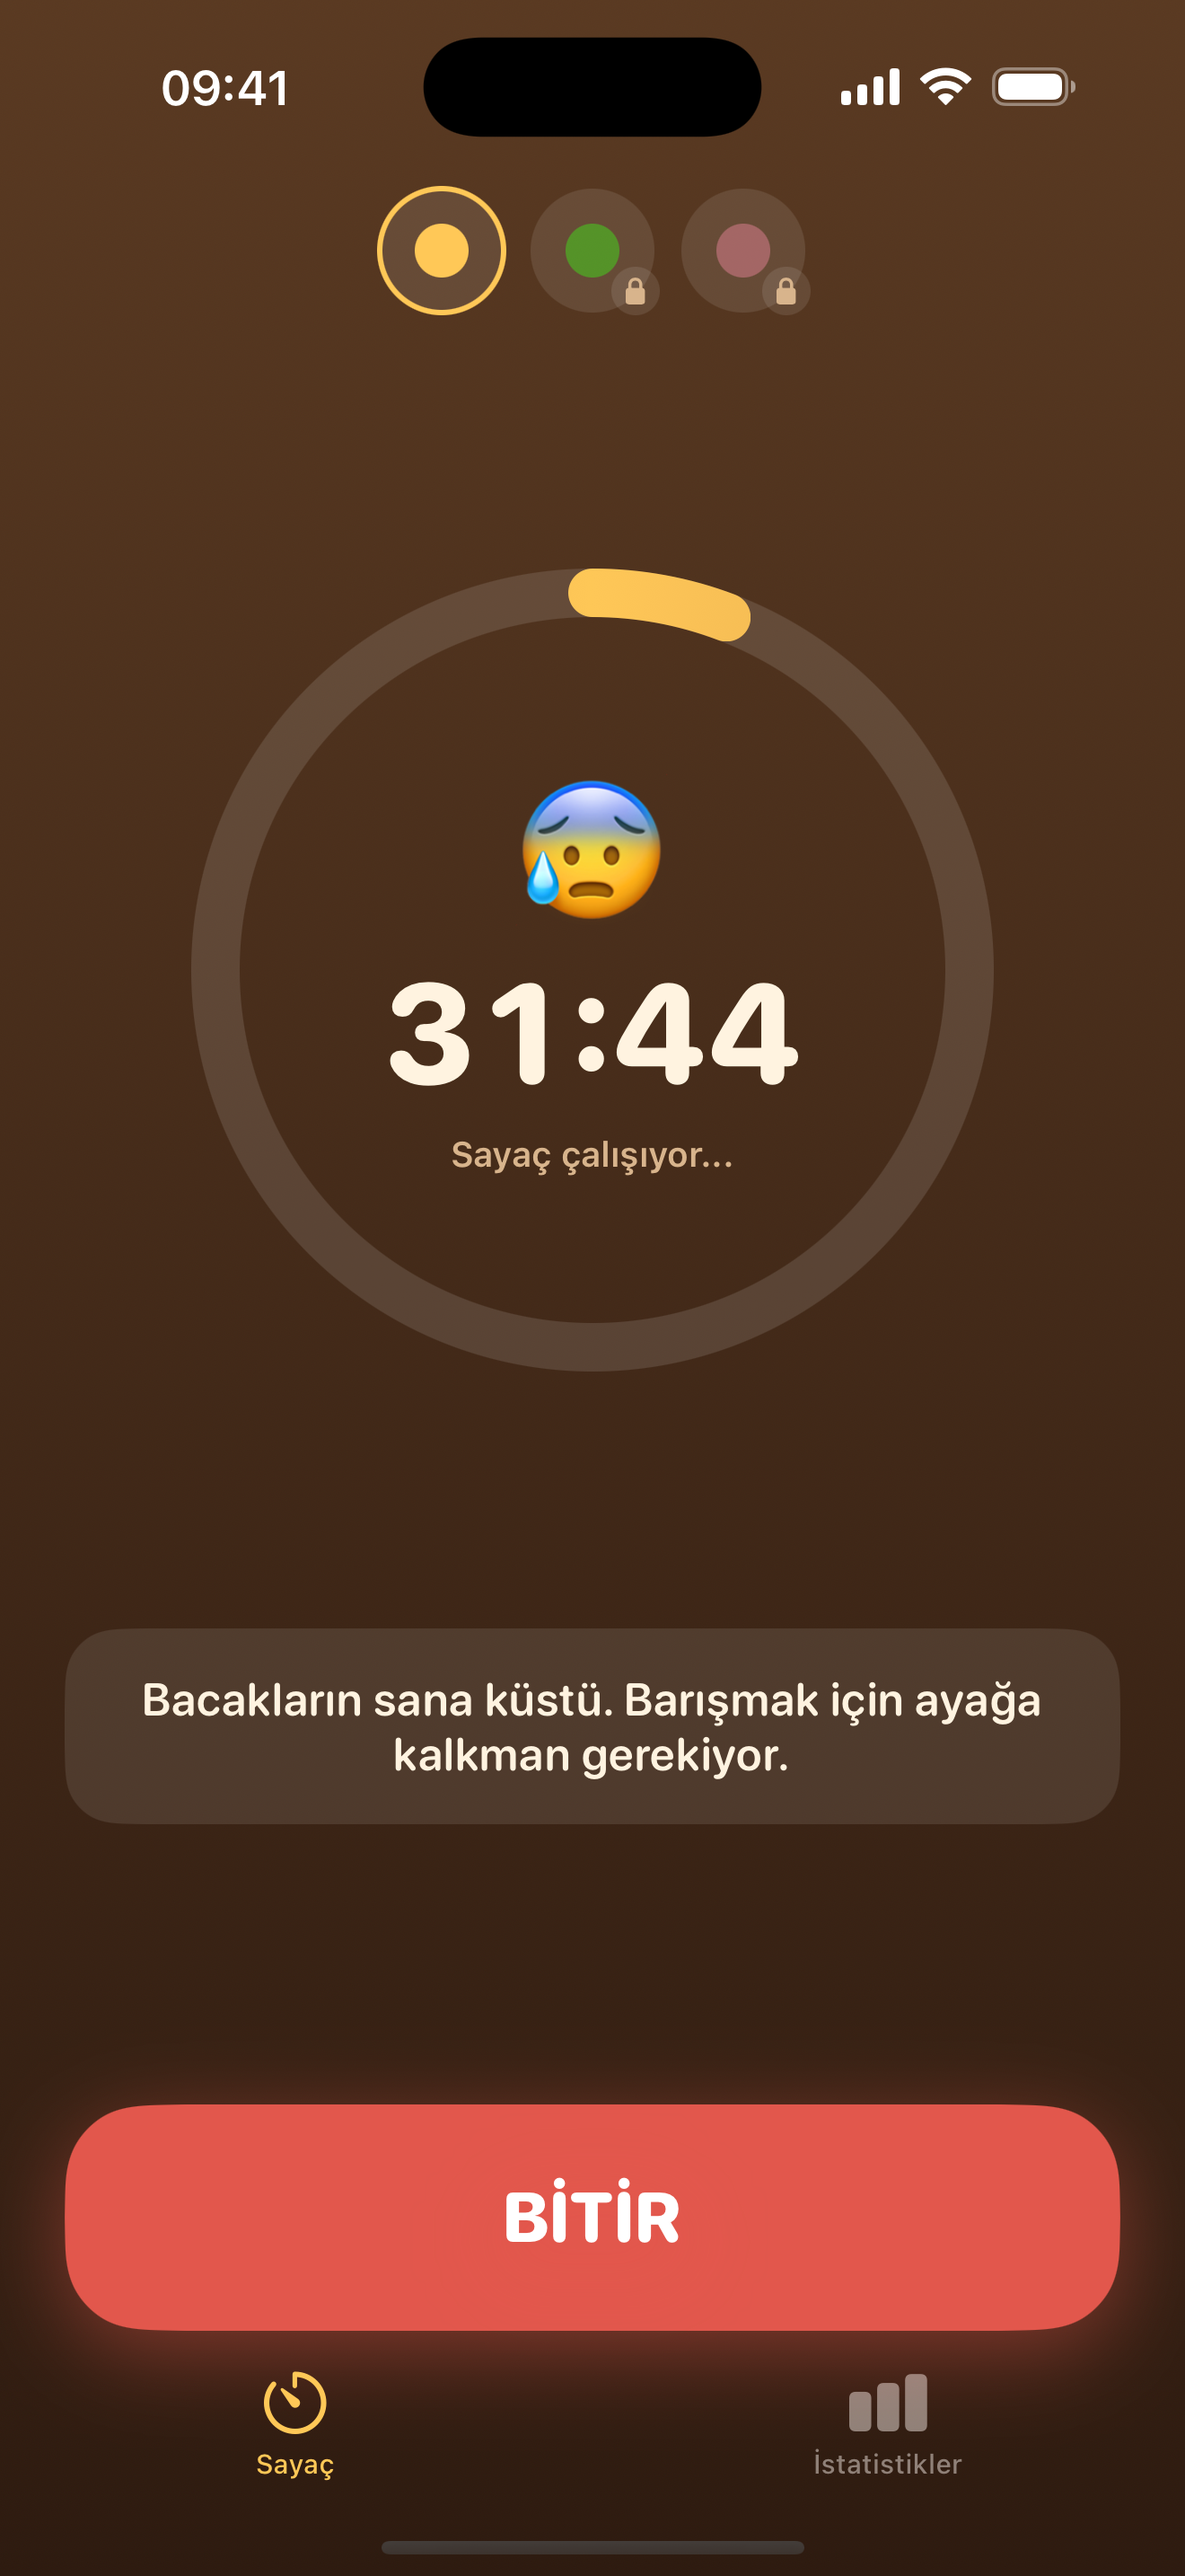
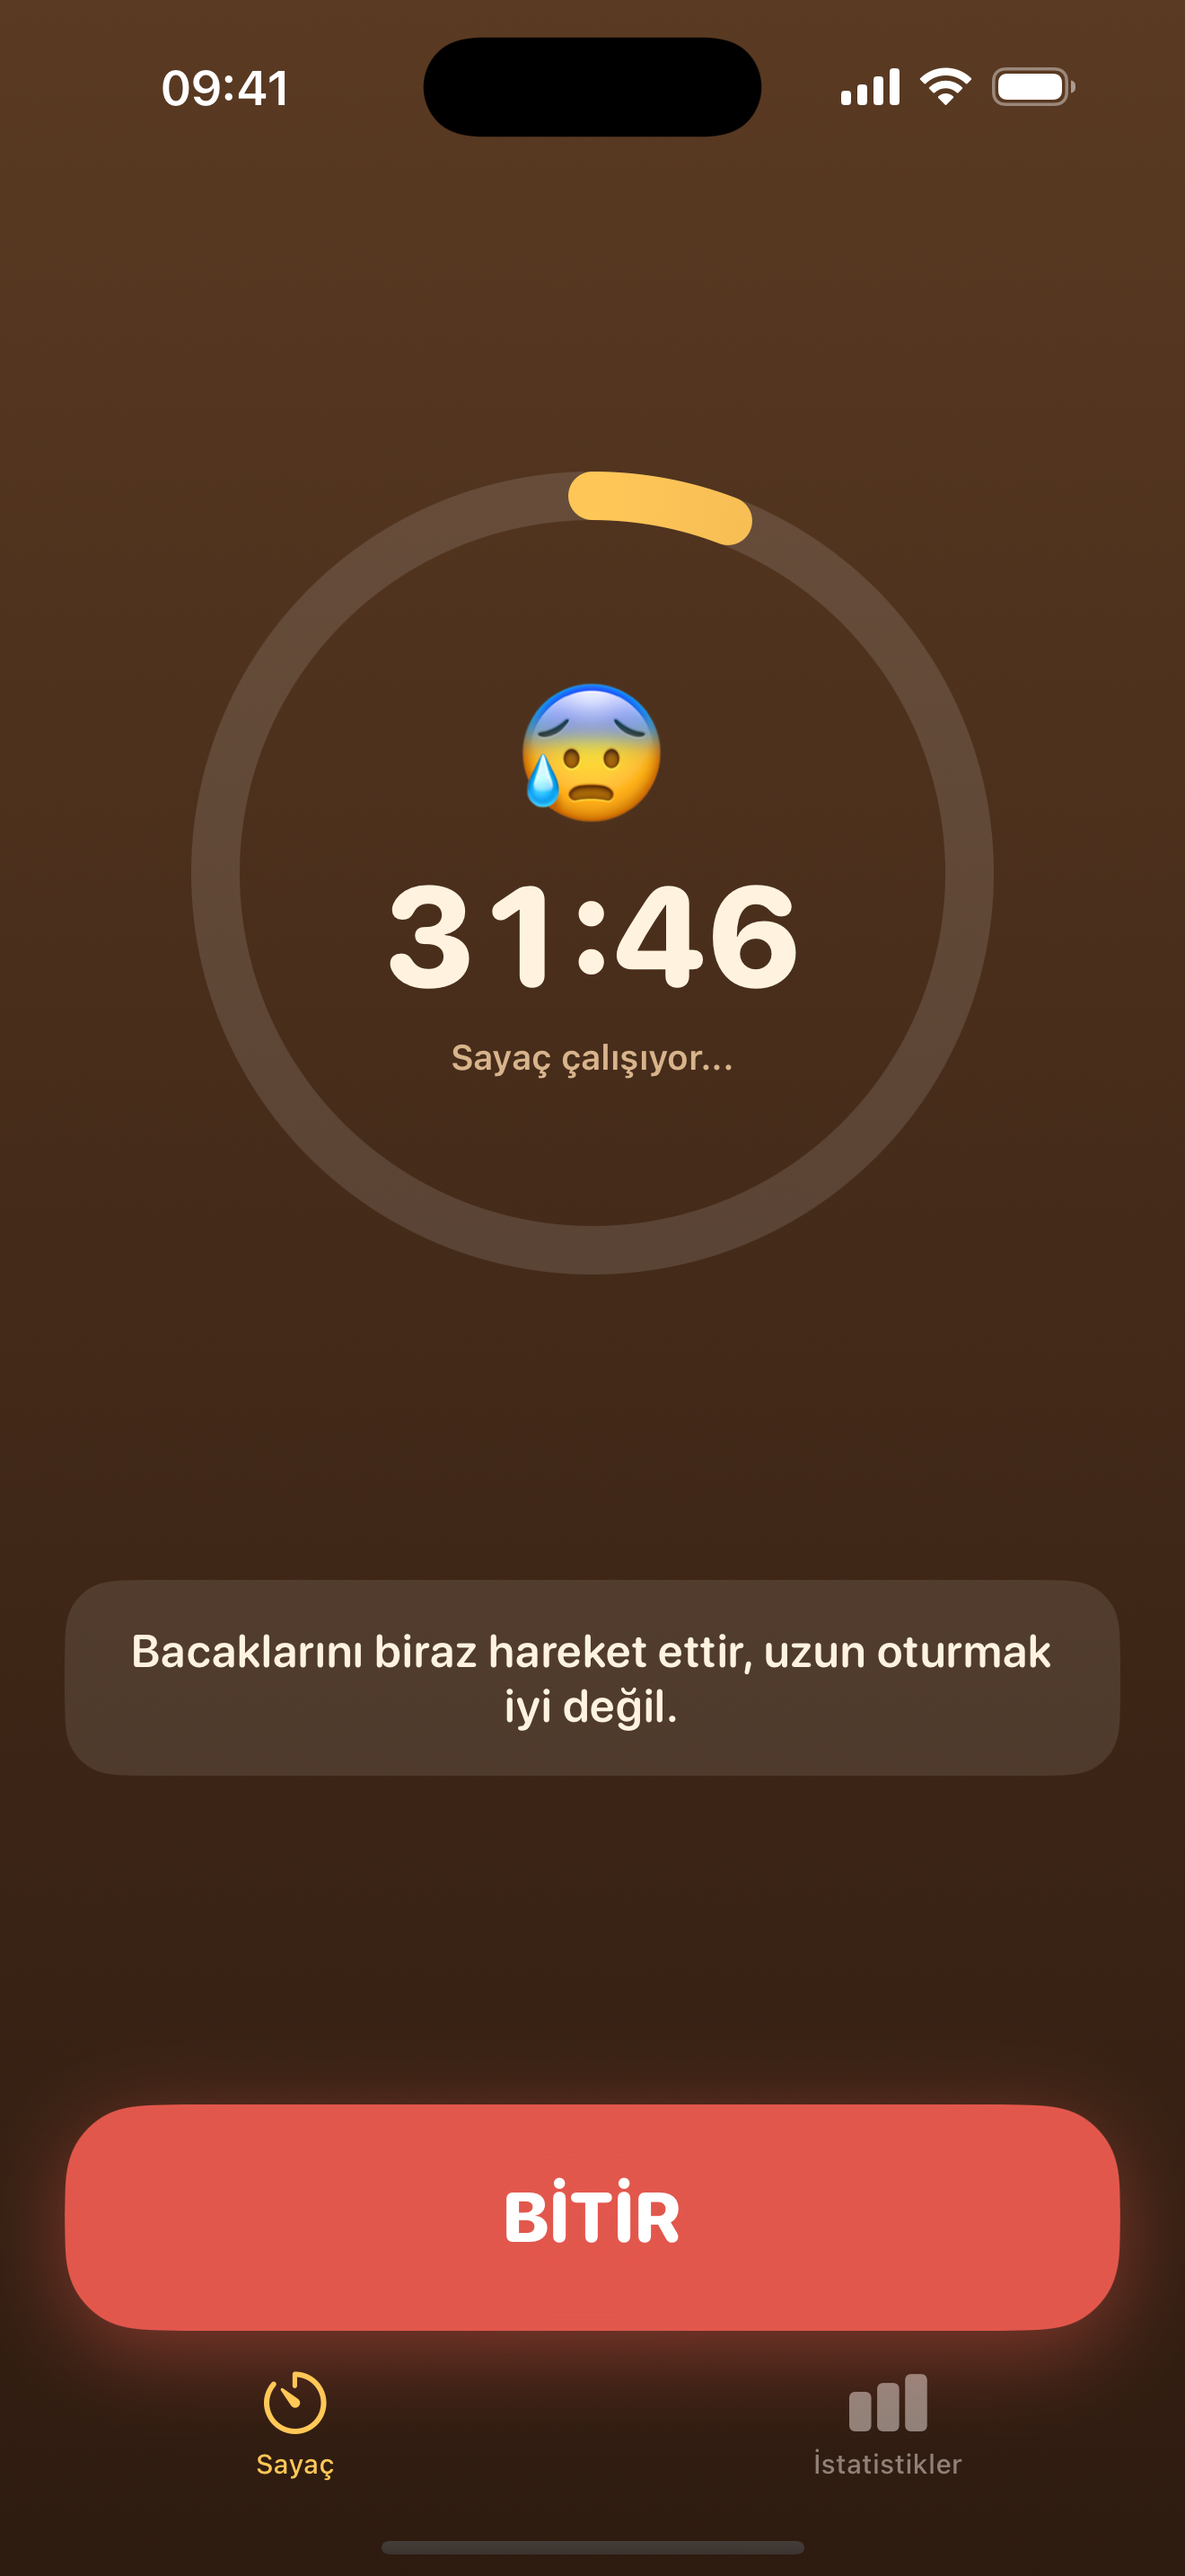
Tema paketini özellik bayrağıyla kapat (build 5)
Paid Applications sözleşmesi aktifleşene kadar kullanıcı çalışmayan bir
satın almayla karşılaşmasın diye: Features.themePackEnabled = false.

- Yalnızca ücretsiz Klasik tema görünüyor, tema seçici gizli
- Paywall hiç açılmıyor; StoreManager ve PaywallView kodu duruyor
- Ekran görüntüleri 3'e indi (tema/satın alma kareleri kaldırıldı)
- Mağaza açıklamasından "ÜÇ TEMA" paragrafının çıkarılması notu eklendi

Banka tarafı bitince: bayrağı true yap, build'i artır, yeni sürüm gönder.

diff --git a/ShitTimer/ContentView.swift b/ShitTimer/ContentView.swift
@@ -8,6 +8,7 @@ struct ContentView: View {
 
     /// Satın alma iptal/iade edilmişse ücretli tema seçili kalmasın.
     private var theme: AppTheme {
+        guard Features.themePackEnabled else { return .classic }
         let stored = AppTheme(rawValue: themeRaw) ?? .classic
         return (stored.isFree || store.isPremium) ? stored : .classic
     }
@@ -43,7 +44,7 @@ struct TimerView: View {
 
     private static var paywallAtLaunch: Bool {
         #if DEBUG
-        return CommandLine.arguments.contains("--paywall")
+        return Features.themePackEnabled && CommandLine.arguments.contains("--paywall")
         #else
         return false
         #endif
@@ -54,8 +55,10 @@ struct TimerView: View {
             theme.background.ignoresSafeArea()
 
             VStack(spacing: 0) {
-                themePicker
-                    .padding(.top, 8)
+                // Tek tema varken seçici gösterilmez
+                if AppTheme.available.count > 1 {
+                    themePicker.padding(.top, 8)
+                }
 
                 Spacer(minLength: 12)
 
@@ -92,7 +95,7 @@ struct TimerView: View {
 
     private var themePicker: some View {
         HStack(spacing: 10) {
-            ForEach(AppTheme.allCases) { option in
+            ForEach(AppTheme.available) { option in
                 let locked = !option.isFree && !store.isPremium
                 Button {
                     if locked {

diff --git a/ShitTimer/Features.swift b/ShitTimer/Features.swift
@@ -1,0 +1,15 @@
+import Foundation
+
+/// Sürüme göre açılıp kapanan özellikler.
+enum Features {
+    /// Tema paketi (uygulama içi satın alma).
+    ///
+    /// `false` iken: yalnızca ücretsiz Klasik tema görünür, tema seçici ve
+    /// satın alma ekranı hiç gösterilmez. App Store'da Paid Applications
+    /// sözleşmesi aktifleşene kadar bu şekilde yayınlanıyor — böylece
+    /// kullanıcı çalışmayan bir satın almayla karşılaşmıyor.
+    ///
+    /// Banka/vergi tarafı tamamlanınca `true` yap, build numarasını artır
+    /// ve yeni sürümü gönder; ürün App Store Connect'te zaten hazır.
+    static let themePackEnabled = false
+}

diff --git a/ShitTimer/Theme.swift b/ShitTimer/Theme.swift
@@ -9,6 +9,11 @@ enum AppTheme: String, CaseIterable, Identifiable {
 
     var id: String { rawValue }
 
+    /// Kullanıcıya gösterilecek temalar — tema paketi kapalıyken yalnızca ücretsiz olan.
+    static var available: [AppTheme] {
+        Features.themePackEnabled ? allCases : [.classic]
+    }
+
     /// Yalnızca Klasik tema ücretsiz; diğerleri tema paketiyle açılır.
     var isFree: Bool { self == .classic }
 

diff --git a/marketing/STORE_LISTING.md b/marketing/STORE_LISTING.md
@@ -232,3 +232,35 @@ kalmamıştır.
 
 İyi çalışmalar.
 ```
+
+
+---
+
+## Tema paketi kapalı sürüm (build 5) için mağaza metinleri
+
+Banka/sözleşme tarafı tamamlanana kadar uygulama **tek temayla** yayınlanıyor
+(`Features.themePackEnabled = false`). Bu sürümde açıklamada olmayan bir özelliği
+vaat etmemek gerekiyor — aksi halde Guideline 2.3 (yanıltıcı metadata) riski doğar.
+
+**Açıklamadan çıkarılacak bölüm (TR):** "ÜÇ TEMA" başlıklı paragrafın tamamı.
+**Yerine (isteğe bağlı) eklenebilir:**
+
+```
+YAKINDA
+Ek temalar ve daha fazla mesaj üzerinde çalışıyoruz.
+```
+
+**English:** remove the "THREE THEMES" paragraph; optionally add:
+
+```
+COMING SOON
+More themes and more messages are on the way.
+```
+
+**Ekran görüntüleri:** yalnızca 3 tanesi geçerli (tema ve satın alma ekranları kaldırıldı):
+`01-sayac`, `02-saglik-uyarisi`, `03-istatistikler`.
+
+**Anahtar kelimelerde** değişiklik gerekmiyor.
+
+Tema paketi açıldığında: `Features.themePackEnabled = true`, build numarasını artır,
+yukarıdaki paragrafları ve 04/05 ekran görüntülerini geri ekle.
